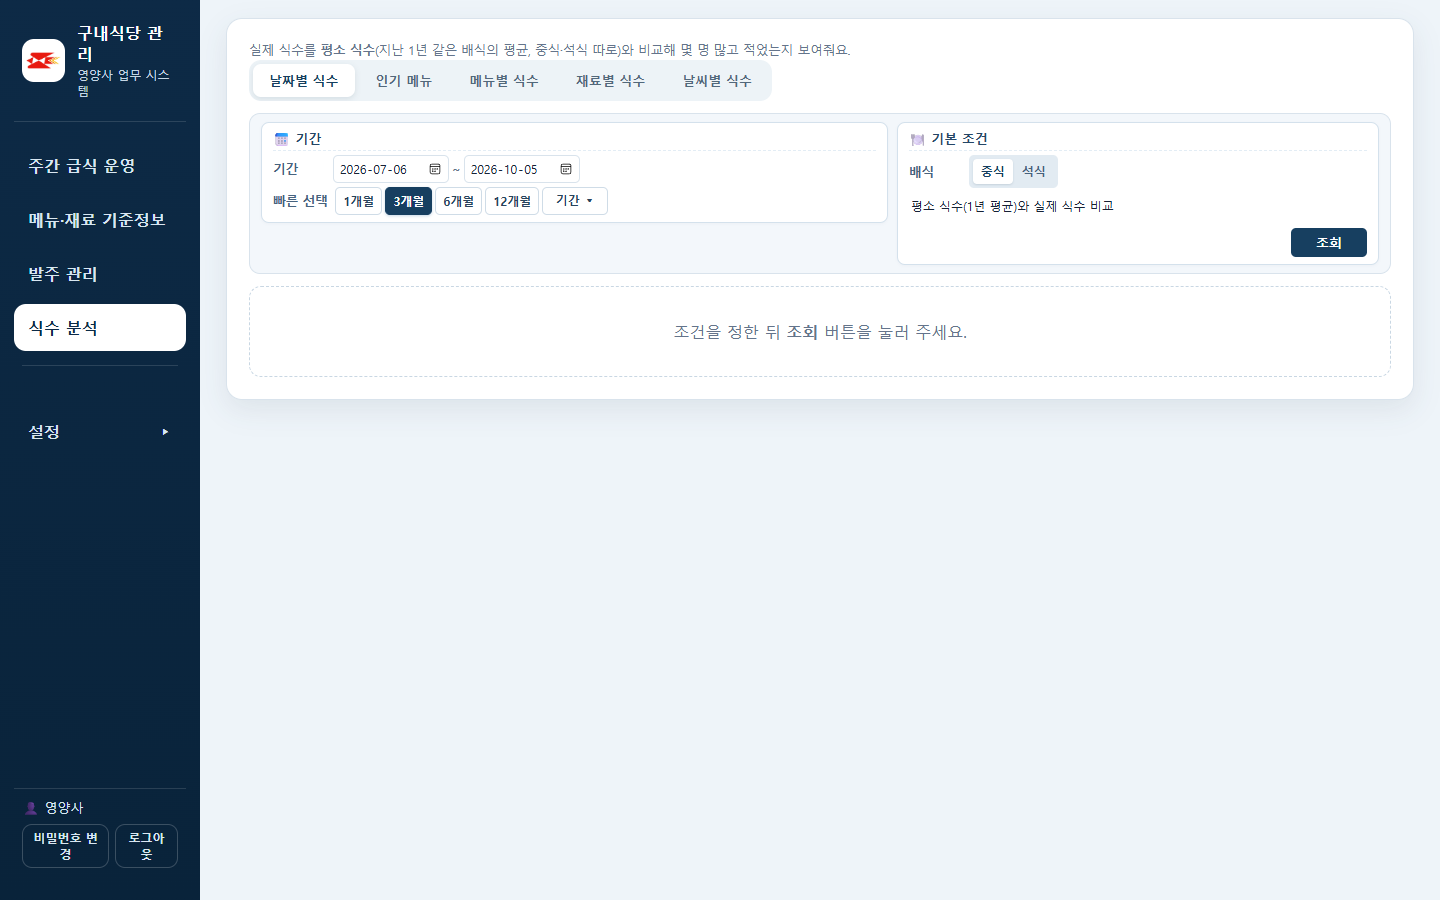
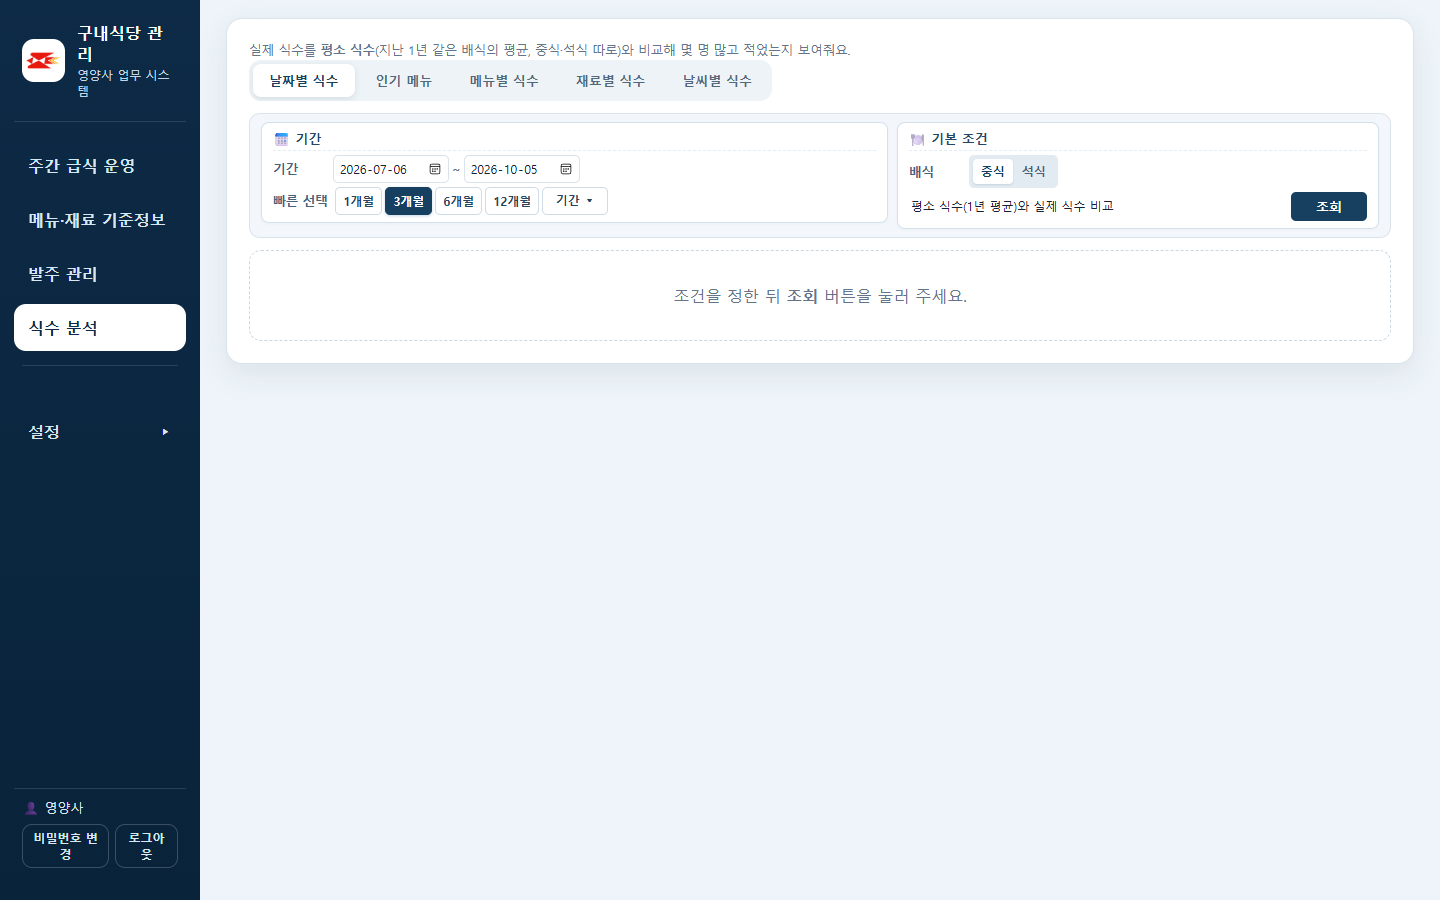
식수분석 조회조건 수정 완료

Changed region(s): [[0.1562, 0.4044, 0.9688, 0.4356], [0.4688, 0.3111, 0.6562, 0.3733], [0.875, 0.1867, 0.9688, 0.3111]]

diff --git a/backend/app/static/app.js b/backend/app/static/app.js
@@ -2777,7 +2777,6 @@ function renderAnalysisConditions(){
         <div class="an-item"><span class="an-label">기간</span><div class="an-period"><input type="date" id="an-start" value="${a.start}"><span>~</span><input type="date" id="an-end" value="${a.end}"></div></div>
         <div class="an-item"><span class="an-label">빠른 선택</span>${quickHtml}</div>
         ${withWeather ? `
-          <div class="an-divider"></div>
           <div class="an-item an-item-wrap">
             <span class="an-label">날씨</span>
             <select id="an-weather-filter" style="width:auto;min-width:85px;height:28px;padding:1px 6px;font-size:12.5px">${Object.entries(ANALYSIS_WEATHER_FILTERS).map(([k,v])=>`<option value="${k}" ${a.weatherFilter===k?'selected':''}>${v}</option>`).join('')}</select>
@@ -2798,8 +2797,10 @@ function renderAnalysisConditions(){
           <div class="an-group-title">🍽 기본 조건</div>
           <div class="an-group-body">
             <div class="an-item"><span class="an-label">배식</span><div class="an-seg">${seg('meal',[['LUNCH','중식','중식 식수'],['DINNER','석식','석식 식수']],a.mealType)}</div></div>
-            <div class="an-item"><span class="muted" style="font-size:12px;padding-left:2px">평소 식수(1년 평균)와 실제 식수 비교</span></div>
-            ${queryBtnHtml}
+            <div class="an-item">
+              <span class="muted" style="font-size:12px;padding-left:2px">평소 식수(1년 평균)와 실제 식수 비교</span>
+              <button type="button" class="primary-button an-query" id="an-query" style="margin-left:auto" title="${escapeHtml(summaryText)}">조회</button>
+            </div>
           </div>
         </div>
       </div>
@@ -2823,14 +2824,12 @@ function renderAnalysisConditions(){
           <div class="an-group-title">🏆 순위 조건</div>
           <div class="an-group-body">
             <div class="an-item"><span class="an-label">순서</span><div class="an-seg">${seg('pop-order',[['top','상위','상위 순'],['bottom','하위','하위 순']],a.popOrder)}</div></div>
-            <div class="an-divider"></div>
-            <div class="an-item an-item-wrap">
-              <span class="an-label" style="min-width:auto">표시</span>
-              <div class="an-seg">${seg('pop-limit',[[10,'10','10개 표시'],[20,'20','20개 표시'],[50,'50','50개 표시']],a.popLimit)}</div>
-              <span class="an-label" style="min-width:auto;margin-left:6px">최소 등장</span>
+            <div class="an-item"><span class="an-label">표시</span><div class="an-seg">${seg('pop-limit',[[10,'10개','10개 표시'],[20,'20개','20개 표시'],[50,'50개','50개 표시']],a.popLimit)}</div></div>
+            <div class="an-item">
+              <span class="an-label">최소 등장</span>
               <input type="number" id="an-min-days" min="1" max="365" value="${a.popMinDays}" class="an-input-num"> <span class="an-unit">회 이상</span>
+              <button type="button" class="primary-button an-query" id="an-query" style="margin-left:auto" title="${escapeHtml(summaryText)}">조회</button>
             </div>
-            ${queryBtnHtml}
           </div>
         </div>
       </div>
@@ -2920,8 +2919,10 @@ function renderAnalysisConditions(){
           <div class="an-group-title">🍽 기본 조건</div>
           <div class="an-group-body">
             <div class="an-item"><span class="an-label">배식</span><div class="an-seg">${seg('meal',[['LUNCH','중식','중식 식수'],['DINNER','석식','석식 식수']],a.mealType)}</div></div>
-            <div class="an-item"><span class="muted" style="font-size:12px;padding-left:2px">중식 11·12시, 석식 17·18시 날씨 연동 분석</span></div>
-            ${queryBtnHtml}
+            <div class="an-item">
+              <span class="muted" style="font-size:12px;padding-left:2px">중식 11·12시, 석식 17·18시 날씨 연동 분석</span>
+              <button type="button" class="primary-button an-query" id="an-query" style="margin-left:auto" title="${escapeHtml(summaryText)}">조회</button>
+            </div>
           </div>
         </div>
       </div>

diff --git a/backend/tests/test_meal_count_analysis.py b/backend/tests/test_meal_count_analysis.py
@@ -387,6 +387,7 @@ def test_menu_compare_weather_filter_and_api(engine):
         assert popular.status_code == 200 and popular.json()["items"]
         assert client.get("/api/analysis/menus/search", params={"mode": "name", "q": "냉"}).json()["items"][0]["name"] == "냉면"
         assert client.get("/api/analysis/popular-menus", params={**params, "limit": 7}).status_code == 400
+        assert client.get("/api/analysis/popular-menus", params={**params, "limit": 50}).status_code == 200
         for tab, extra in (("menus", [("mode", "name"), ("names", "냉면"), ("names", "국밥")]), ("popular", [("basis", "name"), ("min_days", "1")])):
             response = client.get("/api/analysis/export.xlsx", params=[*params.items(), ("tab", tab), *extra])
             assert response.status_code == 200 and response.content[:2] == b"PK"

diff --git a/backend/app/meal_count_analysis.py b/backend/app/meal_count_analysis.py
@@ -547,8 +547,8 @@ def popular_menus(
     check_menu_mode(basis)
     if order not in {"top", "bottom"}:
         raise AnalysisError("상위 또는 하위만 선택할 수 있습니다.")
-    if limit not in {10, 20}:
-        raise AnalysisError("10개 또는 20개만 볼 수 있습니다.")
+    if limit not in {10, 20, 50}:
+        raise AnalysisError("10개, 20개 또는 50개만 볼 수 있습니다.")
     if scope is None:
         scope = "main_menu" if main_only else "all"
     check_menu_scope(scope)

diff --git a/scratch/test_pw.py b/scratch/test_pw.py
@@ -30,7 +30,7 @@ try:
         print("Analysis conditions loaded!")
         
         # Check tabs
-        for tab in ['daily', 'popular', 'menu', 'ingredient']:
+        for tab in ['daily', 'popular', 'menu', 'ingredient', 'weather']:
             page.locator(f"button[data-analysis-tab='{tab}']").click()
             page.wait_for_timeout(300)
             page.screenshot(path=f'scratch/screen_{tab}.png')

diff --git a/README.md b/README.md
@@ -66,7 +66,7 @@ PDF는 즉시 사용할 수 있습니다. HWPX는 기관 양식의 정확한 레
 
 - 평소 식수: 같은 배식(중식/석식 따로)의 지난 1년(364일) 실제 식수 평균(요일 구분 없음). 그날 자신은 빼고, 식단과 실제 식수가 모두 있는 날만 씁니다(휴무일은 자연히 빠짐).
 - 탭: 날짜별 식수(선그래프, 날씨 함께 보기), 인기 메뉴, 메뉴별 식수, 재료별 식수, 날씨별 식수(비 옴/안 옴, 기온 구간).
-- 인기 메뉴: 메뉴 이름 또는 대표 메뉴명 기준으로, 메뉴가 나온 날의 평균 차이(실제 − 평소, 명)로 상위/하위 10·20개를 보여줍니다. 최소 등장 횟수(기본값 1)보다 적게 나온 메뉴는 뺍니다. 평소 식수가 없는 날은 세지 않으며, 같은 차이는 나온 날 수가 많은 순→이름순입니다. 막대나 행을 누르면 메뉴별 식수로 이동합니다. 메뉴 범위는 주찬만(기본)·메인 메뉴만(그날 ★메인 표시)·부찬 포함(주찬+부찬)·전체 중에서 고르며, 역할은 메뉴 기준정보의 메뉴 역할을 씁니다(식단 줄별 역할은 저장되지 않음). 결과가 없으면 가장 많이 나온 횟수를 알려 줍니다. 메뉴별 식수 검색·비교에도 같은 범위를 적용합니다. 인기 메뉴에서 메뉴를 체크(최대 5개, 상위·하위를 바꿔 조회해도 유지)한 뒤 ‘선택한 메뉴 비교’를 누르면 같은 기간·배식·범위로 메뉴별 식수 비교를 조회합니다.
+- 인기 메뉴: 메뉴 이름 또는 대표 메뉴명 기준으로, 메뉴가 나온 날의 평균 차이(실제 − 평소, 명)로 상위/하위 10·20·50개를 보여줍니다. 최소 등장 횟수(기본값 1)보다 적게 나온 메뉴는 뺍니다. 평소 식수가 없는 날은 세지 않으며, 같은 차이는 나온 날 수가 많은 순→이름순입니다. 막대나 행을 누르면 메뉴별 식수로 이동합니다. 메뉴 범위는 주찬만(기본)·메인 메뉴만(그날 ★메인 표시)·부찬 포함(주찬+부찬)·전체 중에서 고르며, 역할은 메뉴 기준정보의 메뉴 역할을 씁니다(식단 줄별 역할은 저장되지 않음). 결과가 없으면 가장 많이 나온 횟수를 알려 줍니다. 메뉴별 식수 검색·비교에도 같은 범위를 적용합니다. 인기 메뉴에서 메뉴를 체크(최대 5개, 상위·하위를 바꿔 조회해도 유지)한 뒤 ‘선택한 메뉴 비교’를 누르면 같은 기간·배식·범위로 메뉴별 식수 비교를 조회합니다.
 - 인기 메뉴에서 체크한 메뉴는 메뉴별 식수 탭을 직접 눌러 들어가도 비교 메뉴로 들어갑니다(이때는 조회 버튼을 눌러야 조회). 새로 배포하면 화면 파일 주소에 버전이 붙어 브라우저가 예전 app.js를 쓰지 않습니다.
 - 체크한 메뉴는 체크할 때의 메뉴 범위를 기억합니다. 예를 들어 부찬 포함으로 조회해 체크한 김구이와 주찬만으로 조회해 체크한 함박스테이크를 함께 비교하면, 메뉴마다 그 범위로 조회해 인기 메뉴의 나온 날 수와 똑같이 나옵니다(칩·요약표에 다른 범위 표시, 제목은 ‘메뉴마다 범위 다름’). 메뉴별 식수에서 메뉴 범위를 직접 바꾸면 모든 비교 메뉴에 그 범위가 적용되고, 그 범위에서 나온 날이 없는 메뉴는 이름을 밝혀 안내합니다.
 - 식수 분석의 탭마다 조회 조건과 결과를 따로 보관해서, 다른 탭에 다녀와도 다시 조회하지 않고 그대로 보여줍니다. 처음 여는 탭은 지금 보던 기간·배식을 이어받습니다.
